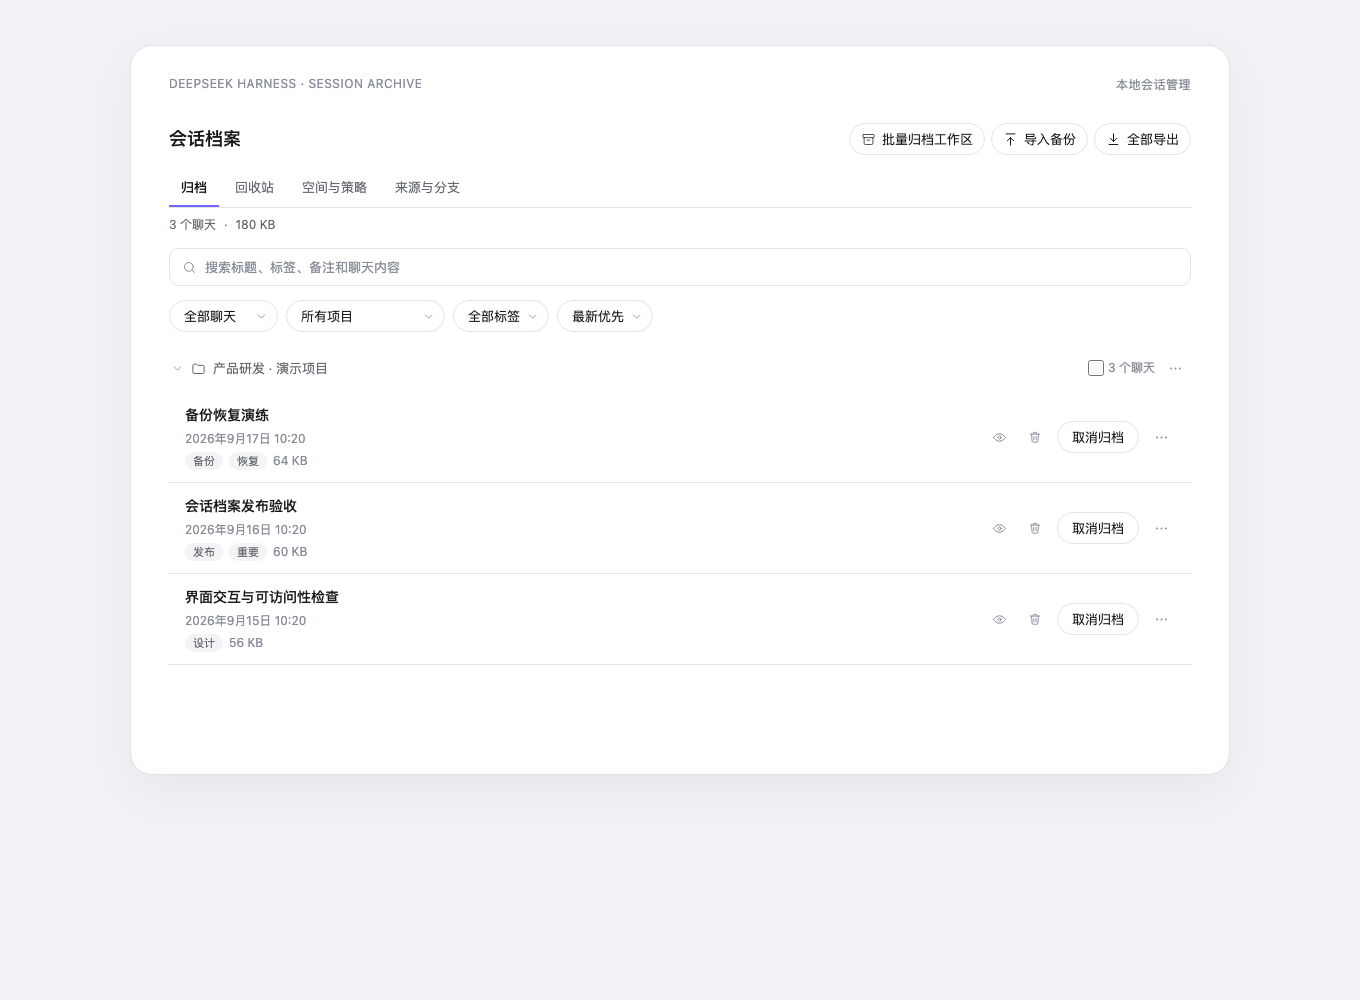
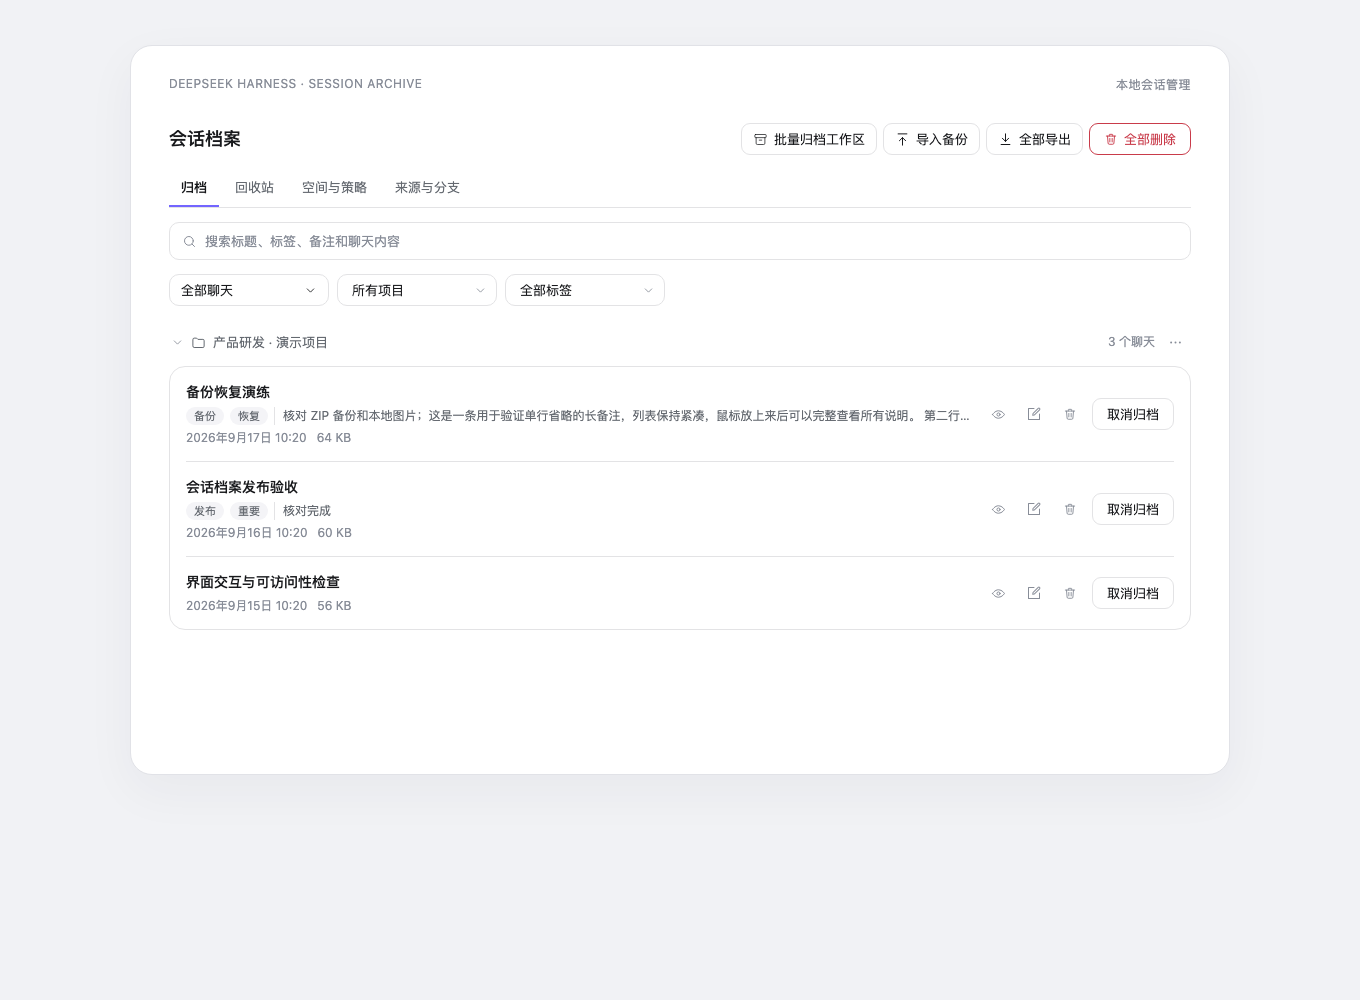
docs: refresh plugin screenshots for v1.3.1

diff --git a/README.md b/README.md
@@ -46,8 +46,8 @@ dsh plugin --profile web update dsh-archived-chats
 ```
 
 <p align="center">
-  <a href="assets/screenshots/preview-03.png"><img src="assets/screenshots/preview-03.png" width="49%" alt="Native read-only legacy-data preview with snapshot time and a synthetic stored image"></a>
-  <a href="assets/screenshots/preview-07.png"><img src="assets/screenshots/preview-07.png" width="49%" alt="Storage and Retention with session directories, protection snapshots, and policy controls"></a>
+  <a href="assets/screenshots/preview-03.png"><img src="assets/screenshots/preview-03.png" width="49%" alt="Multi-workspace archive chooser with Select all and explicit confirmation"></a>
+  <a href="assets/screenshots/preview-07.png"><img src="assets/screenshots/preview-07.png" width="49%" alt="Confirmation before enabling automatic Recycle Bin cleanup"></a>
 </p>
 
 ## Core capabilities
@@ -97,19 +97,19 @@ The eight fixed screenshots below come from an isolated Simplified Chinese light
 <br>
 <table>
   <tr>
-    <td><img src="assets/screenshots/preview-01.png" alt="Session Archive overview with four management views"><br><sub>Archive overview</sub></td>
+    <td><img src="assets/screenshots/preview-01.png" alt="Latest Archived view with search, filters, tags, one-line notes, and current actions"><br><sub>Archive overview</sub></td>
     <td><img src="assets/screenshots/preview-02.png" alt="Full-text search, filters, tags, and readable hit excerpts"><br><sub>Full-text search</sub></td>
   </tr>
   <tr>
-    <td><img src="assets/screenshots/preview-03.png" alt="Native read-only snapshot preview with a stored image"><br><sub>Read-only preview</sub></td>
-    <td><img src="assets/screenshots/preview-04.png" alt="Existing snapshots unified into the Recycle Bin"><br><sub>Unified Recycle Bin</sub></td>
+    <td><img src="assets/screenshots/preview-03.png" alt="Eligible-only multi-workspace archive chooser with Select all"><br><sub>Workspace archive chooser</sub></td>
+    <td><img src="assets/screenshots/preview-04.png" alt="Native read-only legacy snapshot preview with a stored image"><br><sub>Read-only preview</sub></td>
   </tr>
   <tr>
-    <td><img src="assets/screenshots/preview-05.png" alt="Irreversible confirmation before emptying the Recycle Bin"><br><sub>Empty Recycle Bin confirmation</sub></td>
-    <td><img src="assets/screenshots/preview-06.png" alt="Recycle Bin row and workspace restore and permanent-delete actions"><br><sub>Recycle Bin actions</sub></td>
+    <td><img src="assets/screenshots/preview-05.png" alt="Unified Recycle Bin with legacy snapshots and row and workspace actions"><br><sub>Unified Recycle Bin</sub></td>
+    <td><img src="assets/screenshots/preview-06.png" alt="Irreversible confirmation before emptying every workspace in the Recycle Bin"><br><sub>Empty Recycle Bin confirmation</sub></td>
   </tr>
   <tr>
-    <td><img src="assets/screenshots/preview-07.png" alt="Storage accounting and retention policy controls"><br><sub>Storage and retention</sub></td>
+    <td><img src="assets/screenshots/preview-07.png" alt="Storage and Retention confirmation before enabling automatic cleanup"><br><sub>Automatic cleanup confirmation</sub></td>
     <td><img src="assets/screenshots/preview-08.png" alt="Origins and Branches with forks, subagents, and recycled state"><br><sub>Origins and Branches</sub></td>
   </tr>
 </table>

diff --git a/README.zh-CN.md b/README.zh-CN.md
@@ -45,8 +45,8 @@ dsh plugin --profile web update dsh-archived-chats
 ```
 
 <p align="center">
-  <a href="assets/screenshots/preview-03.png"><img src="assets/screenshots/preview-03.png" width="49%" alt="带旧版快照时间和合成图片的原生只读预览"></a>
-  <a href="assets/screenshots/preview-07.png"><img src="assets/screenshots/preview-07.png" width="49%" alt="空间与策略中的会话目录、保护快照和保留策略"></a>
+  <a href="assets/screenshots/preview-03.png"><img src="assets/screenshots/preview-03.png" width="49%" alt="支持全选并明确确认的多工作区归档选择器"></a>
+  <a href="assets/screenshots/preview-07.png"><img src="assets/screenshots/preview-07.png" width="49%" alt="启用回收站自动清理前的确认"></a>
 </p>
 
 ## 核心能力
@@ -96,19 +96,19 @@ dsh plugin --profile web update dsh-archived-chats
 <br>
 <table>
   <tr>
-    <td><img src="assets/screenshots/preview-01.png" alt="会话档案总览和四个管理视图"><br><sub>归档总览</sub></td>
+    <td><img src="assets/screenshots/preview-01.png" alt="包含搜索、筛选、标签、单行备注和当前操作的最新版归档页"><br><sub>归档总览</sub></td>
     <td><img src="assets/screenshots/preview-02.png" alt="全文搜索、筛选、标签与命中摘要"><br><sub>全文搜索</sub></td>
   </tr>
   <tr>
-    <td><img src="assets/screenshots/preview-03.png" alt="带已存储图片的原生只读快照预览"><br><sub>原生只读预览</sub></td>
-    <td><img src="assets/screenshots/preview-04.png" alt="已有快照统一进入回收站"><br><sub>统一回收站</sub></td>
+    <td><img src="assets/screenshots/preview-03.png" alt="仅展示可归档项并支持全选的多工作区归档选择器"><br><sub>工作区归档选择器</sub></td>
+    <td><img src="assets/screenshots/preview-04.png" alt="带已存储图片的旧版快照原生只读预览"><br><sub>原生只读预览</sub></td>
   </tr>
   <tr>
-    <td><img src="assets/screenshots/preview-05.png" alt="清空回收站前的不可恢复确认"><br><sub>清空回收站确认</sub></td>
-    <td><img src="assets/screenshots/preview-06.png" alt="回收站单条与工作区恢复和永久删除操作"><br><sub>回收站操作</sub></td>
+    <td><img src="assets/screenshots/preview-05.png" alt="包含旧版快照及单条和工作区操作的统一回收站"><br><sub>统一回收站</sub></td>
+    <td><img src="assets/screenshots/preview-06.png" alt="清空所有工作区回收站前的不可恢复确认"><br><sub>清空回收站确认</sub></td>
   </tr>
   <tr>
-    <td><img src="assets/screenshots/preview-07.png" alt="空间分账和保留策略控件"><br><sub>空间与策略</sub></td>
+    <td><img src="assets/screenshots/preview-07.png" alt="空间与策略中启用自动清理前的确认"><br><sub>自动清理确认</sub></td>
     <td><img src="assets/screenshots/preview-08.png" alt="来源与分支中的分叉、子代理和回收状态"><br><sub>来源与分支</sub></td>
   </tr>
 </table>

diff --git a/CHANGELOG.md b/CHANGELOG.md
@@ -1,3 +1,17 @@
+## 1.3.1 — 更新插件市场截图 / Refresh plugin-market screenshots
+
+### 中文
+
+- 重新拍摄全部 8 个插件市场演示场景，使图片与 1.3 系列的当前界面和操作一致。
+- 新增工作区归档选择器、统一回收站工作区菜单和自动清理确认等关键界面展示。
+- 同步更新中英文 README 的截图顺序、替代文字和图注。本补丁不改变运行时行为。
+
+### English
+
+- Recaptured all eight plugin-market demo scenes so the images match the current 1.3 interface and actions.
+- Added coverage for the workspace archive chooser, unified Recycle Bin workspace menu, and automatic-cleanup confirmation.
+- Synchronized screenshot order, alt text, and captions in both READMEs. This patch does not change runtime behavior.
+
 ## 1.3.0 — 统一回收站与精简操作 / Unified Recycle Bin and simpler actions
 
 ### 中文
